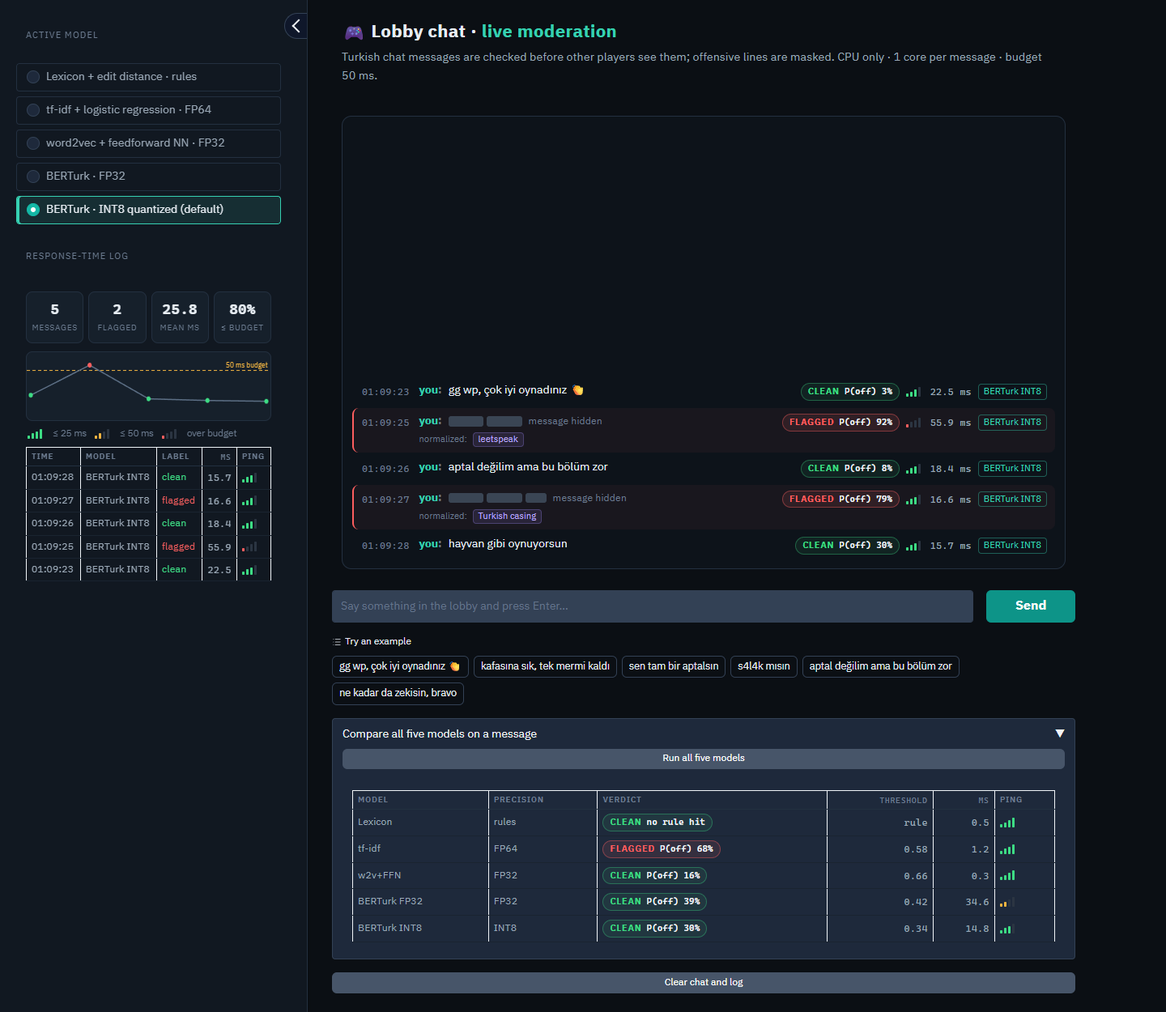
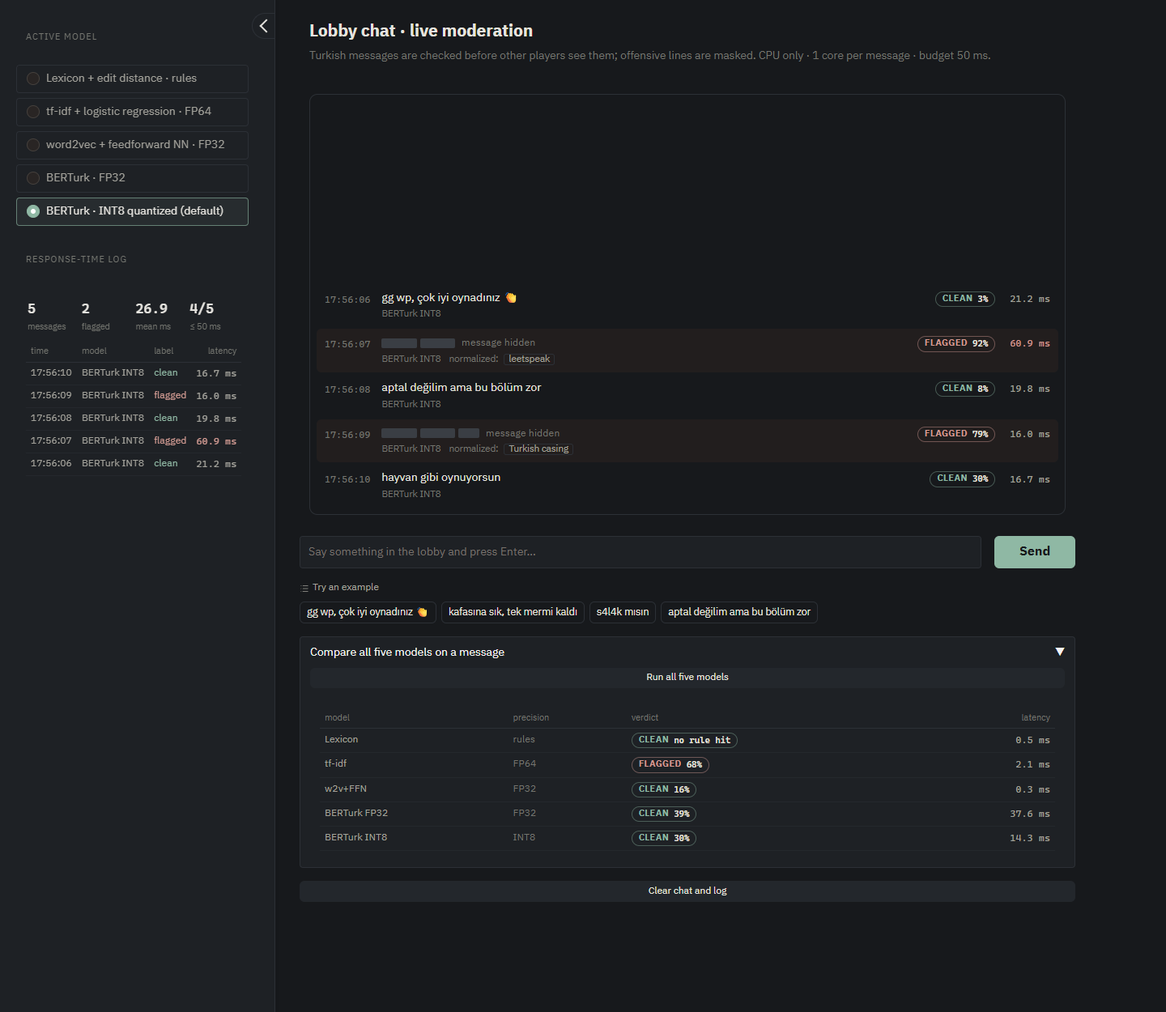
Simpler app UI: calm graphite theme, plain latency log, fewer duplicate details
The side panel keeps the response time of every message with a short summary;
the ping meter and the latency chart are removed. The architecture diagram text
follows the new UI.

diff --git a/app.py b/app.py
@@ -4,8 +4,8 @@
   confidence score; offensive messages are masked before they are shown. Tags show which regex
   normalization rules fired (leetspeak, repeated letters, Turkish casing).
 - Side panel: model switcher (default: INT8-quantized BERTurk) and a log of the response time of every
-  message: statistics, a latency chart with the budget line, and a game-style "ping" meter per message
-  (budget: 50 ms per message on one CPU core).
+  message with a summary: count, flagged, mean and how many stayed within the budget (50 ms per message
+  on one CPU core).
 - "Compare all five models" runs the message in the box (or, if the box is empty, the last chat message)
   through the whole model ladder side by side.
 Run: python app.py
@@ -32,27 +32,17 @@ CHOICE_LABELS = {"lexicon": "Lexicon + edit distance · rules", "tfidf": "tf-idf
                  "ffn": "word2vec + feedforward NN · FP32", "bert_fp32": "BERTurk · FP32",
                  "bert_int8": "BERTurk · INT8 quantized (default)"}
 CHOICES = [(CHOICE_LABELS[k], k) for k in PREDICTORS]
-# One of each kind: clean, gaming slang, offensive, leetspeak, negation, irony.
-EXAMPLES = ["gg wp, çok iyi oynadınız 👏", "kafasına sık, tek mermi kaldı", "sen tam bir aptalsın", "s4l4k mısın",
-            "aptal değilim ama bu bölüm zor", "ne kadar da zekisin, bravo"]
+# One of each kind: clean, gaming slang, leetspeak insult, negation.
+EXAMPLES = ["gg wp, çok iyi oynadınız 👏", "kafasına sık, tek mermi kaldı", "s4l4k mısın",
+            "aptal değilim ama bu bölüm zor"]
 
 
 # ---------- small HTML helpers (all user text goes through html.escape) ----------
 
-def ping_level(ms: float) -> tuple[int, str]:
-    ratio = ms / BUDGET_MS
-    if ratio <= 0.25:
-        return 4, "good"
-    if ratio <= 0.5:
-        return 3, "good"
-    return (2, "warn") if ratio <= 1 else (1, "bad")
-
-
-def ping(ms: float) -> str:
-    """Game-style ping meter: 4 green bars far below the budget, 1 red bar over it."""
-    bars, level = ping_level(ms)
-    cells = "".join(f'<i class="{"on" if i < bars else ""}"></i>' for i in range(4))
-    return f'<span class="ping {level}" title="{ms:.1f} ms of {BUDGET_MS:.0f} ms budget">{cells}</span>'
+def ms_span(ms: float) -> str:
+    """Response time; over the 50 ms budget it is shown in the 'offensive' tone."""
+    over = " over" if ms > BUDGET_MS else ""
+    return f'<span class="ms{over}" title="{ms:.1f} ms of the {BUDGET_MS:.0f} ms budget">{ms:.1f} ms</span>'
 
 
 def redacted(text: str) -> str:
@@ -65,7 +55,7 @@ def verdict_chip(label: int, p_off: float, threshold: float, probabilistic: bool
     The label uses the threshold tuned on the validation split (not 0.5), so P(off) is shown together with it.
     """
     if probabilistic:
-        score = f"P(off) {p_off:.0%}"
+        score = f"{p_off:.0%}"
         tip = f"P(offensive) = {p_off:.2f}; flagged when ≥ {threshold:.2f} (threshold tuned on validation data)"
     else:
         score, tip = ("rule hit" if label else "no rule hit"), "rule-based: no probability"
@@ -75,78 +65,54 @@ def verdict_chip(label: int, p_off: float, threshold: float, probabilistic: bool
 
 def render_feed(history: list[dict]) -> str:
     if not history:
-        return ('<div class="feed empty" lang="en"><div class="empty-note">Lobby is quiet.<br>'
-                'Type a message below — every line is checked before other players see it.</div></div>')
+        return ('<div class="feed empty" lang="en"><div class="empty-note">The lobby is quiet.<br>'
+                'Type a message below. Every line is checked before other players see it.</div></div>')
     lines = []
     for h in reversed(history):  # column-reverse keeps the newest line at the bottom, scrolled into view
         body = (f'<span class="hidden-bars">{redacted(h["text"])}</span><em>message hidden</em>' if h["label"]
                 else html.escape(h["text"]))
         tags = "".join(f'<span class="tag">{s}</span>' for s in h["steps"])
         lines.append(
-            f'<div class="line {"flagged" if h["label"] else ""} {h["key"]}">'
+            f'<div class="line {"flagged" if h["label"] else ""}">'
             f'<span class="ts">{h["time"]}</span>'
-            f'<div class="body"><span class="who">you</span><span class="msg">{body}</span>'
-            f'{f"<div class=tags>normalized: {tags}</div>" if tags else ""}</div>'
-            f'<span class="meta">{verdict_chip(h["label"], h["p_off"], h["thr"], h["prob"])}{ping(h["ms"])}'
-            f'<span class="ms">{h["ms"]:.1f} ms</span><span class="model">{html.escape(h["model"])}</span></span>'
+            f'<div class="body"><span class="msg">{body}</span>'
+            f'<div class="sub"><span class="model">{html.escape(h["model"])}</span>'
+            f'{f"<span class=tags>normalized: {tags}</span>" if tags else ""}</div></div>'
+            f'<span class="meta">{verdict_chip(h["label"], h["p_off"], h["thr"], h["prob"])}{ms_span(h["ms"])}</span>'
             f'</div>')
     return f'<div class="feed" lang="en">{"".join(lines)}</div>'
 
 
-def sparkline(history: list[dict], width: int = 360, height: int = 86) -> str:
-    """Latency of the last 40 messages with the budget as a dashed line."""
-    pts = [h["ms"] for h in history[-40:]]
-    top = max(max(pts) * 1.15, BUDGET_MS * 1.3)
-    pad = 6
-
-    def y(v):
-        return pad + (height - 2 * pad) * (1 - v / top)
-
-    step = (width - 2 * pad) / max(len(pts) - 1, 1)
-    xs = [pad + i * step for i in range(len(pts))] if len(pts) > 1 else [width / 2]
-    path = " ".join(f"{x:.1f},{y(v):.1f}" for x, v in zip(xs, pts))
-    dots = "".join(f'<circle class="{ping_level(v)[1]}" cx="{x:.1f}" cy="{y(v):.1f}" r="3"/>' for x, v in zip(xs, pts))
-    by = y(BUDGET_MS)
-    return (f'<svg class="spark" viewBox="0 0 {width} {height}" preserveAspectRatio="none" role="img" '
-            f'aria-label="Latency of recent messages">'
-            f'<line class="budget-line" x1="0" x2="{width}" y1="{by:.1f}" y2="{by:.1f}"/>'
-            f'<text x="{width - 4}" y="{by - 4:.1f}" text-anchor="end">{BUDGET_MS:.0f} ms budget</text>'
-            f'<polyline points="{path}"/>{dots}</svg>')
-
-
 def render_hud(history: list[dict]) -> str:
+    """Side panel: summary of the response times and one log row per message."""
     n = len(history)
-    flagged = sum(h["label"] for h in history)
-    mean = sum(h["ms"] for h in history) / n if n else 0.0
-    within = sum(h["ms"] <= BUDGET_MS for h in history) / n if n else 0.0
-    tiles = [("messages", f"{n}"), ("flagged", f"{flagged}"), ("mean ms", f"{mean:.1f}" if n else "–"),
-             ("≤ budget", f"{within:.0%}" if n else "–")]
-    stat_html = "".join(f'<div class="stat"><b>{v}</b><span>{k}</span></div>' for k, v in tiles)
-    legend = (f'<div class="legend">{ping(BUDGET_MS * 0.2)} ≤ {BUDGET_MS / 2:.0f} ms'
-              f'{ping(BUDGET_MS * 0.8)} ≤ {BUDGET_MS:.0f} ms{ping(BUDGET_MS * 1.2)} over budget</div>')
     if not n:
-        return (f'<div class="hud" lang="en"><div class="stats">{stat_html}</div>{legend}'
-                f'<p class="hint">Response times appear here.</p></div>')
+        return '<div class="hud" lang="en"><p class="hint">The response time of every message appears here.</p></div>'
+    flagged = sum(h["label"] for h in history)
+    mean = sum(h["ms"] for h in history) / n
+    within = sum(h["ms"] <= BUDGET_MS for h in history)
+    stats = [(f"{n}", "messages"), (f"{flagged}", "flagged"), (f"{mean:.1f}", "mean ms"),
+             (f"{within}/{n}", f"≤ {BUDGET_MS:.0f} ms")]
+    stat_html = "".join(f'<div class="stat"><b>{v}</b><span>{k}</span></div>' for v, k in stats)
     rows = "".join(
         f'<tr><td>{h["time"]}</td><td>{html.escape(h["model"])}</td>'
         f'<td class="{"bad" if h["label"] else "good"}">{"flagged" if h["label"] else "clean"}</td>'
-        f'<td class="num">{h["ms"]:.1f}</td><td>{ping(h["ms"])}</td></tr>'
+        f'<td class="num">{ms_span(h["ms"])}</td></tr>'
         for h in reversed(history[-60:]))
-    table = (f'<table class="log"><thead><tr><th>time</th><th>model</th><th>label</th><th class="num">ms</th>'
-             f'<th>ping</th></tr></thead><tbody>{rows}</tbody></table>')
-    return f'<div class="hud" lang="en"><div class="stats">{stat_html}</div>{sparkline(history)}{legend}{table}</div>'
+    table = (f'<table class="log"><thead><tr><th>time</th><th>model</th><th>label</th><th class="num">latency</th>'
+             f'</tr></thead><tbody>{rows}</tbody></table>')
+    return f'<div class="hud" lang="en"><div class="stats">{stat_html}</div>{table}</div>'
 
 
 def render_compare(rows: list[tuple]) -> str:
     if not rows:
         return ('<p class="hint" lang="en">Runs the message in the box through all five models '
-                '(empty box: the last chat message).</p>')
+                '(empty box: the last chat message). Hover a verdict to see its threshold.</p>')
     body = "".join(
-        f'<tr><td>{html.escape(short)}</td><td>{prec}</td><td>{chip}</td><td class="num">{thr}</td>'
-        f'<td class="num">{ms:.1f}</td><td>{ping(ms)}</td></tr>' for short, prec, chip, thr, ms in rows)
+        f'<tr><td>{html.escape(short)}</td><td class="dim">{prec}</td><td>{chip}</td>'
+        f'<td class="num">{ms_span(ms)}</td></tr>' for short, prec, chip, ms in rows)
     return (f'<table class="log compare" lang="en"><thead><tr><th>model</th><th>precision</th><th>verdict</th>'
-            f'<th class="num">threshold</th><th class="num">ms</th><th>ping</th></tr></thead><tbody>{body}</tbody>'
-            f'</table>')
+            f'<th class="num">latency</th></tr></thead><tbody>{body}</tbody></table>')
 
 
 # ---------- event handlers ----------
@@ -178,8 +144,7 @@ def compare(message, history):
     if message:
         for key, p in PREDICTORS.items():
             label, p_off, ms = classify(key, message)
-            thr = f"{p.threshold:.2f}" if p.probabilistic else "rule"
-            rows.append((p.short, p.precision, verdict_chip(label, p_off, p.threshold, p.probabilistic), thr, ms))
+            rows.append((p.short, p.precision, verdict_chip(label, p_off, p.threshold, p.probabilistic), ms))
     return render_compare(rows)
 
 
@@ -188,102 +153,92 @@ def clear():
 
 
 CSS = """
-:root, .dark { --bg:#0b0f14; --panel:#111821; --panel-2:#16202b; --line:#233040; --ink:#e7edf3;
-  --ink-2:#9aa8b6; --ink-3:#6b7b8f; --accent:#36d1b2; --good:#3ddc84; --warn:#f2b441; --bad:#ff5f5f; }
+/* "Graphite": a calm, neutral dark theme with one soft sage accent. */
+:root, .dark { --bg:#17191c; --panel:#1e2125; --panel-2:#23272c; --line:#2c3036; --ink:#e6e4df;
+  --ink-2:#a3a29b; --ink-3:#74756f; --accent:#8fb8a4; --good:#8fb8a4; --bad:#d19a92; --flag:#221e1e;
+  --body-background-fill: var(--bg); --background-fill-primary: var(--bg); --background-fill-secondary: var(--panel);
+  --block-background-fill: var(--panel); --block-border-color: var(--line); --border-color-primary: var(--line);
+  --input-background-fill: var(--panel); --input-border-color: var(--line); --input-border-color-focus: var(--accent);
+  --body-text-color: var(--ink); --body-text-color-subdued: var(--ink-2); --block-label-text-color: var(--ink-2);
+  --button-secondary-background-fill: var(--panel-2); --button-secondary-background-fill-hover: #2a2f35;
+  --button-secondary-text-color: var(--ink); --button-secondary-border-color: var(--line);
+  --button-primary-background-fill: var(--accent); --button-primary-background-fill-hover: #a0c5b3;
+  --button-primary-text-color: #17191c; --button-primary-border-color: var(--accent);
+  --checkbox-background-color-selected: var(--accent); --checkbox-border-color-selected: var(--accent);
+  --checkbox-border-color-focus: var(--accent); --checkbox-label-background-fill-selected: transparent;
+  --color-accent: var(--accent); --color-accent-soft: rgba(143,184,164,.12); --link-text-color: var(--accent); }
 html, body, gradio-app, .gradio-container, .main, .wrap.sidebar-parent { background: var(--bg) !important; }
 .gradio-container { max-width: none !important; color: var(--ink); }
 footer { display: none !important; }
-#stage { max-width: 1040px; width: 100%; margin: 0 auto; }
+#stage { max-width: 980px; width: 100%; margin: 0 auto; }
 /* Gradio offsets the content by only half of the sidebar width; with a wide sidebar the chat would slide
    under it. On desktop widths the open sidebar pushes the content by its full width instead. */
 @media (min-width: 900px) {
   .gradio-container .main { max-width: none !important; margin-left: 0 !important; margin-right: 0 !important; }
   .wrap.sidebar-parent { padding-right: 0 !important; transition: padding-left .2s ease; }
-  .wrap.sidebar-parent:has(.sidebar.open) { padding-left: 396px !important; }
+  .wrap.sidebar-parent:has(.sidebar.open) { padding-left: 356px !important; }
 }
 .sidebar { background: var(--panel) !important; border-right: 1px solid var(--line); }
 .ts, .ms, .num, .stat b, .chip b { font-family: ui-monospace, "Cascadia Mono", Consolas, monospace;
   font-variant-numeric: tabular-nums; }
-#title h1 { font-size: 1.4rem; letter-spacing: .01em; margin: 0; color: var(--ink); }
-#title p { color: var(--ink-2); margin: .3rem 0 0; font-size: .9rem; }
-#title .tag-accent { color: var(--accent); }
-.section-label { color: var(--ink-3); font-size: .7rem; text-transform: uppercase; letter-spacing: .09em;
-  margin: 6px 0 2px; }
+#title h1 { font-size: 1.3rem; font-weight: 600; margin: 0; color: var(--ink); }
+#title p { color: var(--ink-3); margin: .3rem 0 0; font-size: .86rem; }
+.section-label { color: var(--ink-3); font-size: .7rem; text-transform: uppercase; letter-spacing: .08em;
+  margin: 8px 0 2px; }
 /* chat feed */
-.feed { height: clamp(260px, calc(100vh - 430px), 560px); overflow-y: auto; display: flex;
-  flex-direction: column-reverse; gap: 2px; background: #0d131a; border: 1px solid var(--line);
-  border-radius: 12px; padding: 10px 12px; }
+.feed { height: clamp(240px, calc(100vh - 420px), 520px); overflow-y: auto; display: flex;
+  flex-direction: column-reverse; gap: 2px; background: var(--bg); border: 1px solid var(--line);
+  border-radius: 10px; padding: 8px; }
 .feed.empty { justify-content: center; align-items: center; }
-.empty-note { color: var(--ink-3); text-align: center; line-height: 1.7; }
-.line { display: flex; align-items: flex-start; flex-wrap: wrap; gap: 4px 12px; padding: 7px 10px;
-  border-radius: 8px; border-left: 2px solid transparent; animation: in .18s ease-out; }
-.line:hover { background: var(--panel); }
-.line.flagged { border-left-color: var(--bad); background: rgba(255,95,95,.05); }
-.ts { color: var(--ink-3); font-size: .78rem; flex: none; padding-top: 2px; }
+.empty-note { color: var(--ink-3); text-align: center; line-height: 1.7; font-size: .9rem; }
+.line { display: flex; align-items: flex-start; flex-wrap: wrap; gap: 4px 14px; padding: 8px 10px;
+  border-radius: 6px; animation: in .18s ease-out; }
+.line.flagged { background: var(--flag); }
+.ts { color: var(--ink-3); font-size: .75rem; flex: none; padding-top: 3px; }
 .body { flex: 1 1 260px; min-width: 0; }
-.who { color: var(--accent); font-weight: 600; margin-right: 8px; }
-.who::after { content: ":"; color: var(--ink-3); }
 .msg { color: var(--ink); overflow-wrap: anywhere; }
+.sub { margin-top: 2px; font-size: .72rem; display: flex; flex-wrap: wrap; gap: 4px 10px; }
+.sub, .sub .model, .sub .tags { color: var(--ink-3) !important; font-weight: 400 !important; }
 .hidden-bars { display: inline-flex; flex-wrap: wrap; gap: 4px; vertical-align: middle; }
 .line em { color: var(--ink-3); font-size: .78rem; font-style: normal; margin-left: 8px; }
-.bar { display: inline-block; height: .9em; border-radius: 3px; background: #3a4554; }
-.tags { margin-top: 4px; font-size: .7rem; color: var(--ink-3); }
-.tag { display: inline-block; margin-left: 4px; padding: 0 6px; border-radius: 4px; color: #b9a7ff;
-  background: rgba(155,135,245,.12); border: 1px solid rgba(155,135,245,.3); }
-.meta { display: flex; align-items: center; gap: 8px; margin-left: auto; }
-.chip { display: inline-flex; gap: 6px; align-items: center; font-size: .7rem; font-weight: 700;
-  letter-spacing: .06em; padding: 2px 8px; border-radius: 999px; border: 1px solid; }
+.bar { display: inline-block; height: .85em; border-radius: 2px; background: #3a3e44; }
+.tag { margin-left: 4px; padding: 0 5px; border-radius: 3px; border: 1px solid var(--line); color: var(--ink-2); }
+.meta { display: flex; align-items: center; gap: 12px; margin-left: auto; padding-top: 1px; }
+.chip { display: inline-flex; gap: 6px; align-items: center; font-size: .68rem; font-weight: 600;
+  letter-spacing: .05em; padding: 1px 8px; border-radius: 999px; border: 1px solid; cursor: help; }
 .chip b { font-weight: 500; letter-spacing: 0; }
-.chip.good { color: var(--good); border-color: rgba(61,220,132,.35); background: rgba(61,220,132,.08); }
-.chip.bad { color: var(--bad); border-color: rgba(255,95,95,.4); background: rgba(255,95,95,.1); }
-.ms { color: var(--ink-2); font-size: .78rem; min-width: 4.4em; text-align: right; }
-.model { font-size: .7rem; min-width: 6.6em; padding: 1px 6px; border-radius: 4px; color: var(--ink-3);
-  border: 1px solid var(--line); text-align: center; }
-.line.bert_int8 .model { color: var(--accent); border-color: rgba(54,209,178,.4); }
-.line.bert_fp32 .model { color: var(--warn); border-color: rgba(242,180,65,.4); }
-/* ping meter */
-.ping { display: inline-flex; align-items: flex-end; gap: 2px; height: 12px; vertical-align: middle; }
-.ping i { display: block; width: 3px; border-radius: 1px; background: #2b3542; }
-.ping i:nth-child(1) { height: 4px; } .ping i:nth-child(2) { height: 6.5px; }
-.ping i:nth-child(3) { height: 9px; } .ping i:nth-child(4) { height: 12px; }
-.ping.good i.on { background: var(--good); } .ping.warn i.on { background: var(--warn); }
-.ping.bad i.on { background: var(--bad); }
-/* HUD */
-.hud .stats { display: grid; grid-template-columns: repeat(4, 1fr); gap: 6px; }
-.stat { background: var(--panel-2); border: 1px solid var(--line); border-radius: 8px; padding: 8px 4px;
-  text-align: center; }
-.stat b { display: block; font-size: 1.15rem; color: var(--ink); }
-.stat span { font-size: .64rem; color: var(--ink-3); text-transform: uppercase; letter-spacing: .06em; }
-.spark { width: 100%; height: 86px; margin-top: 10px; background: var(--panel-2); border: 1px solid var(--line);
-  border-radius: 8px; }
-.spark polyline { fill: none; stroke: #5c6f85; stroke-width: 1.5; vector-effect: non-scaling-stroke; }
-.spark circle.good { fill: var(--good); } .spark circle.warn { fill: var(--warn); }
-.spark circle.bad { fill: var(--bad); }
-.spark .budget-line { stroke: var(--warn); stroke-dasharray: 4 3; stroke-width: 1; vector-effect: non-scaling-stroke; }
-.spark text { fill: var(--warn); font-size: 10px; }
-.legend { display: flex; flex-wrap: wrap; gap: 4px 10px; align-items: center; margin: 8px 2px; font-size: .72rem;
-  color: var(--ink-3); }
-.legend .ping { margin-right: 3px; }
-.log { width: 100%; border-collapse: collapse; font-size: .78rem; }
-.log th { text-align: left; color: var(--ink-3); font-weight: 600; text-transform: uppercase; font-size: .64rem;
-  letter-spacing: .06em; padding: 4px 6px; border-bottom: 1px solid var(--line); }
-.log td { padding: 5px 6px; border-bottom: 1px solid #1a2430; color: var(--ink-2); white-space: nowrap; }
-.log td.good { color: var(--good); } .log td.bad { color: var(--bad); }
+.chip.good { color: var(--good); border-color: rgba(143,184,164,.4); }
+.chip.bad { color: var(--bad); border-color: rgba(209,154,146,.45); }
+.ms { color: var(--ink-2); font-size: .76rem; }
+.meta .ms { min-width: 4.6em; text-align: right; }
+.ms.over { color: var(--bad); }
+/* side panel */
+.hud .stats { display: grid; grid-template-columns: repeat(4, 1fr); gap: 4px; margin: 4px 0 10px; }
+.stat { text-align: left; padding: 2px 2px 0; }
+.stat b { display: block; font-size: 1.05rem; font-weight: 500; color: var(--ink); }
+.stat span { font-size: .66rem; color: var(--ink-3); }
+.log { width: 100%; border-collapse: collapse; font-size: .76rem; border: none !important; }
+.log tr, .log thead, .log tbody { border: none !important; background: transparent !important; }
+.log th { text-align: left; color: var(--ink-3); font-weight: 500; font-size: .68rem; padding: 4px 6px;
+  font-family: inherit !important;
+  border: none !important; border-bottom: 1px solid var(--line) !important; background: transparent !important; }
+.log td { padding: 5px 6px; color: var(--ink-2); white-space: nowrap; background: transparent !important;
+  border: none !important; border-bottom: 1px solid #24282d !important; }
+.log td.good { color: var(--good); } .log td.bad { color: var(--bad); } .log td.dim { color: var(--ink-3); }
 .log .num { text-align: right; }
-.hint { color: var(--ink-3); font-size: .85rem; }
-/* model switcher: one model per row, the active one clearly marked */
+.hint { color: var(--ink-3); font-size: .84rem; margin: 4px 0; }
+/* model switcher: one model per row, the active one marked by the accent */
 .sidebar fieldset .wrap { flex-direction: column; gap: 6px; }
 .sidebar fieldset label { width: 100%; background: transparent !important; border: 1px solid var(--line) !important;
-  color: var(--ink-2) !important; }
-.sidebar fieldset label:hover { border-color: #3a4a5e !important; color: var(--ink) !important; }
-.sidebar fieldset label.selected { border-color: var(--accent) !important; background: rgba(54,209,178,.12) !important;
-  color: var(--ink) !important; box-shadow: inset 3px 0 0 var(--accent); }
+  color: var(--ink-2) !important; box-shadow: none !important; }
+.sidebar fieldset label:hover { border-color: #3d424a !important; color: var(--ink) !important; }
+.sidebar fieldset label.selected { border-color: rgba(143,184,164,.6) !important;
+  background: rgba(143,184,164,.08) !important; color: var(--ink) !important; }
 #composer { align-items: stretch; }
-/* example messages: compact chips that fit on one row */
 .gallery { gap: 6px !important; }
 .gallery-item { font-size: 12.5px !important; }
-#send-btn { min-width: 110px; }
-@keyframes in { from { opacity: 0; transform: translateY(4px); } to { opacity: 1; transform: none; } }
+#send-btn { min-width: 100px; }
+@keyframes in { from { opacity: 0; transform: translateY(3px); } to { opacity: 1; transform: none; } }
 @media (prefers-reduced-motion: reduce) { .line { animation: none; } }
 """
 
@@ -303,21 +258,21 @@ FORCE_DARK = """<script>
 
 with gr.Blocks(title="Real-Time Chat Moderation") as demo:
     history = gr.State([])
-    with gr.Sidebar(open=True, width=380):
+    with gr.Sidebar(open=True, width=340):
         gr.HTML('<div class="section-label" lang="en">Active model</div>')
         model_key = gr.Radio(choices=CHOICES, value=DEFAULT_MODEL, show_label=False, container=False)
         gr.HTML('<div class="section-label" lang="en">Response-time log</div>')
         hud = gr.HTML(render_hud([]))
     with gr.Column(elem_id="stage"):
-        gr.HTML(f'<div id="title" lang="en"><h1>🎮 Lobby chat · <span class="tag-accent">live moderation</span></h1>'
-                f'<p>Turkish chat messages are checked before other players see them; offensive lines are '
-                f'masked. CPU only · {CPU_THREADS} core per message · budget {BUDGET_MS:.0f}&nbsp;ms.</p></div>')
+        gr.HTML(f'<div id="title" lang="en"><h1>Lobby chat · live moderation</h1>'
+                f'<p>Turkish messages are checked before other players see them; offensive lines are masked. '
+                f'CPU only · {CPU_THREADS} core per message · budget {BUDGET_MS:.0f}&nbsp;ms.</p></div>')
         feed = gr.HTML(render_feed([]))
         with gr.Row(elem_id="composer"):
             box = gr.Textbox(placeholder="Say something in the lobby and press Enter…", show_label=False,
                              lines=1, max_lines=1, scale=5, autofocus=True, container=False)
             send_btn = gr.Button("Send", variant="primary", scale=0, elem_id="send-btn")
-        gr.Examples(EXAMPLES, inputs=box, label="Try an example", examples_per_page=10)
+        gr.Examples(EXAMPLES, inputs=box, label="Try an example")
         with gr.Accordion("Compare all five models on a message", open=False):
             compare_btn = gr.Button("Run all five models", size="sm")
             compare_out = gr.HTML(render_compare([]))
@@ -329,5 +284,5 @@ with gr.Blocks(title="Real-Time Chat Moderation") as demo:
     clear_btn.click(clear, None, [history, feed, hud])
 
 if __name__ == "__main__":
-    demo.launch(theme=gr.themes.Base(primary_hue="teal", neutral_hue="slate"), css=CSS, head=FORCE_DARK,
+    demo.launch(theme=gr.themes.Base(primary_hue="green", neutral_hue="stone"), css=CSS, head=FORCE_DARK,
                 footer_links=[])

diff --git a/scripts/make_architecture_diagram.py b/scripts/make_architecture_diagram.py
@@ -134,16 +134,16 @@ def main() -> None:
     s.append(box(1005, 414, 300, 76, "Normalization tags", ["normalization_steps(): which",
                                                             "regex rules fired (no words shown)"]))
     s.append(box(1005, 508, 300, 96, "Latency · app.py classify()", ["time.perf_counter() around the", "model call · budget 50 ms (mean)",
-                                                 "ping meter: ≤25 · ≤50 · over"]))
+                                                 "over 50 ms: shown in red"]))
 
     # ---- browser (output) ----
     s.append(container(1340, 110, 230, 560, "BROWSER · OUTPUT", None))
     s.append(box(1352, 150, 206, 200, "Chat feed", ["one line per message:", "CLEAN / FLAGGED + P(off),",
                                                     "masked text,", "normalization tags,", "ms and model"]))
-    s.append(box(1352, 368, 206, 112, "Compare table", ["5 models side by side:", "verdict, threshold,",
-                                                        "ms, ping"]))
-    s.append(box(1352, 498, 206, 150, "Response-time log", ["side panel: ms of every", "message, mean, % within",
-                                                            "budget, chart with", "the 50 ms line"]))
+    s.append(box(1352, 368, 206, 112, "Compare table", ["5 models side by side:", "verdict + P(off), ms;",
+                                                        "threshold on hover"]))
+    s.append(box(1352, 498, 206, 150, "Response-time log", ["side panel: ms of every", "message, count, flagged,",
+                                                            "mean ms, messages", "within 50 ms"]))
 
     # ---- arrows: inference ----
     s.append(arrow([(265, 206), (315, 206)]))                                   # message -> normalize
